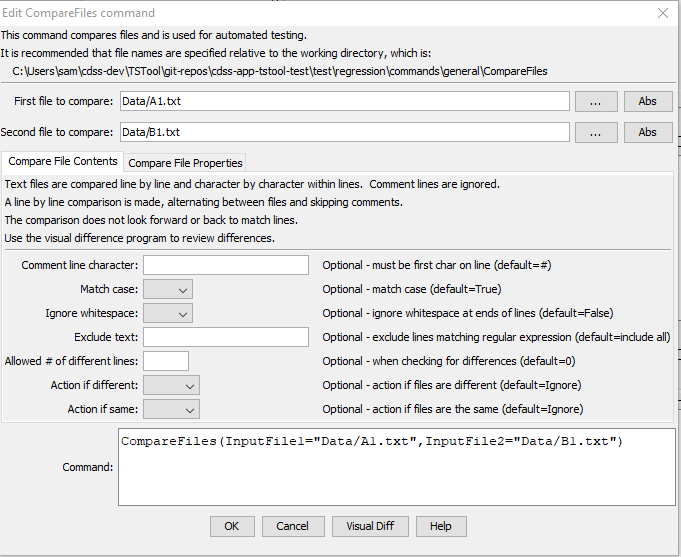
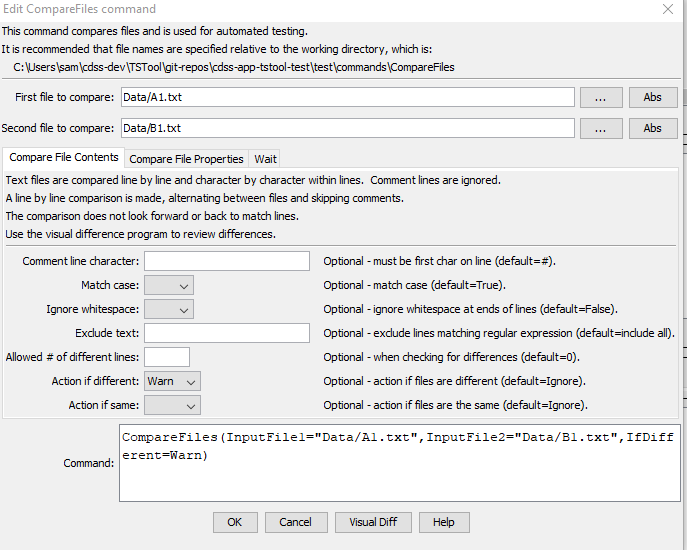
Update CompareFiles documentation, issue #102
Also update Access datastore documentation.

Changed region(s): [[0.0, 0.0, 1.0, 1.0], [0.0925, 0.8345, 0.185, 0.8655]]

diff --git a/mkdocs-project/docs/command-ref/CompareFiles/CompareFiles.md b/mkdocs-project/docs/command-ref/CompareFiles/CompareFiles.md
@@ -12,16 +12,28 @@
 ## Overview ##
 
 The `CompareFiles` command compares text files to determine differences.
-For example, the command can be used to compare old and new files produced by a software process.
+Each file can be specified as a path to a file on the local computer,
+or a URL specifying a file on a web server.
+If a URL is specified for an input file,
+the URL contents are downloaded to a temporary file,
+which is then compared with the other file.
+
+The command can be used to compare old and new files produced by a software process.
 This command is suitable for comparing files that are similar,
 but is not suitable for comparing files that are very different,
 although it may be enhanced in the future to provide more sophisticated comparison features.
 
-Each line in the file is compared.
-By default, lines beginning with `#` are treated as comment lines and are ignored
-(see the `CommentLineChar` parameter to specify the comment indicator).
-Therefore, only non-comment lines are compared.
-Comment lines in the middle of the file are simply discarded.
+* Each line in each file is read.
+  Different numbers of non-comment lines will result in differences.
+* By default, lines beginning with `#` are treated as comment lines and are ignored
+  (see the `CommentLineChar` parameter to specify the comment indicator).
+  Therefore, only non-comment lines are compared.
+  Comment lines in the middle of the file are simply discarded.
+* Missing input files will result in an error.
+  However, if `WaitUntil` is specified, a missing file is treated as an empty file.
+* No attempt is made to align similar lines to jump past groups of different lines.
+  Therefore, if the number of lines is different, many lines may be reported to be different.
+
 Differences and simple statistics are printed to the log file.
 A warning can be generated if a difference is detected or if no differences are detected
 (see also the [`CompareTimeSeries`](../CompareTimeSeries/CompareTimeSeries.md) and [`CompareTables`](../CompareTables/CompareTables.md) commands).
@@ -51,6 +63,14 @@ The following dialog is used to edit the command and illustrates the command syn
 `CompareFiles` Command Editor for Comparing File Properties (<a href="../CompareFiles-Properties.png">see also the full-size image</a>)
 </p>**
 
+**<p style="text-align: center;">
+![CompareFiles-Wait](CompareFiles-Wait.png)
+</p>**
+
+**<p style="text-align: center;">
+`CompareFiles` Command Editor for Wait Properties (<a href="../CompareFiles-Wait.png">see also the full-size image</a>)
+</p>**
+
 ## Command Syntax ##
 
 The command syntax is as follows:
@@ -64,8 +84,8 @@ Command Parameters
 
 | **Tab** | **Parameter**&nbsp;&nbsp;&nbsp;&nbsp;&nbsp;&nbsp;&nbsp;&nbsp;&nbsp;&nbsp;&nbsp;&nbsp;&nbsp;&nbsp;&nbsp;&nbsp;&nbsp;&nbsp;&nbsp;&nbsp;&nbsp;&nbsp;&nbsp;&nbsp;&nbsp; | **Description** | **Default**&nbsp;&nbsp;&nbsp;&nbsp;&nbsp;&nbsp;&nbsp;&nbsp;&nbsp;&nbsp; |
 | --------------|-----------------|----------------- | -- |
-| | `InputFile1`<br>**required** | The name of the first file to read for comparison.  Can be specified using `${Property}`. | None - must be specified. |
-| | `InputFile2`<br>**required** | The name of the second file to read for comparison.  Can be specified using `${Property}`. | None - must be specified. |
+| ***All*** | `InputFile1`<br>**required** | The path to the local file or URL for the first file to read for comparison.  Can be specified using `${Property}`. | None - must be specified. |
+| | `InputFile2`<br>**required** | The path to the local file or URL for the second file to read for comparison.  Can be specified using `${Property}`. | None - must be specified. |
 | ***Compare File Contents*** | `InputFile1`<br>**required** | The name of the first file to read for comparison.  Can be specified using `${Property}`. | None - must be specified. |
 | | `CommentLineChar` | The character(s) that if found at the start of a line indicate comment lines. Comment lines are ignored in the comparison because they typically may include information such as date/time that changes even if the remainder of the file contents is the same. | `#` |
 | | `MatchCase` | If `True`, lines must match exactly.  If `False`, case is ignored for the comparison. | `True` |
@@ -77,6 +97,9 @@ Command Parameters
 | ***Compare File Properties*** | `FileProperty` | File property to compare:<ul><li>`ModificationTime` - file modification time</li><li>`Size` - file size in bytes</li></ul> | |
 | | `FilePropertyOperator` | Operator for comparison, such as Property (for file 1) > Property (for file 2). | |
 | | `FilePropertyAction` | Action to take if the file property check is true:<ul><li>`Warn` - create a warning message</li><li>`Fail` - create a failure message</li></ul> | |
+| ***Wait*** | `WaitUntil` | Indicate whether the command should wait until a condition is met, useful to confirm that a process has completed updating a file or a file has been updated to a web server:<ul><li>`FilesAreDifferent` - wait until the files are different</li><li>`FilesAreSame` - wait until the files are the same</li><li>`NoWait` - don't wait (evaluate the files once)</li></ul> | `NoWait` |
+| | `WaitTimeout` | The maximum number of milliseconds to wait to achieve the `WaitUntil` condition.  If the condition is met before the timeout, the output reflects the files being the requested condition. If the time is reached, no further attempts occur and the result of the last comparison is output. | `1000` (1 second). |
+| | `WaitInterval` | The number of milliseconds to wait between evaluations (to allow an external process to complete its work). | `1000` (1 second). |
 
 ## Examples ##
 

diff --git a/mkdocs-project/docs/datastore-ref/GenericDatabase/GenericDatabase.md b/mkdocs-project/docs/datastore-ref/GenericDatabase/GenericDatabase.md
@@ -214,11 +214,32 @@ Name = "ExampleDatabase"
 Description = "Example Access Database"
 DatabaseEngine = "Access"
 DatabaseName = "//C/path/to/database.accdb"
+# Using the following syntax also seems to work.
+#DatabaseName = "//C:/path/to/database.accdb"
+# See the discussion below.
+#ConnectionProperties = ";memory=false"
 ```
 
 **<p style="text-align: center;">
 Generic Database Datastore Configuration File for Microsoft Access
 </p>**
+
+#### Memory and Performance Considerations ####
+
+By default, the UCanAccess driver will read the entire database into memory,
+which is done to increase performance for relatively small databases.
+However, this can significantly slow down TSTool startup and may lead to an out of memory error.
+The [`OpenDataStore`](../../command-ref/OpenDataStore/OpenDataStore.md) command also
+reopens the datastore each time the commands are run and will be slow each time.
+To avoid loading the database into memory at the initial connection, use the `;memory=false` string in `ConnectionProperties`,
+as shown in the above example, and in [`OpenDataStore(ConnectionProperties=";memory=false"`](../../command-ref/OpenDataStore/OpenDataStore.md)).
+
+See the [UCanAccess documentation](http://ucanaccess.sourceforge.net/site.html#examples)
+for other connection string properties.
+
+If it is desired to load the full database at startup and TSTool runs out of memory,
+it may be necessary to increase the maximum memory used by TSTool.
+See the [Troubleshooting](../../troubleshooting/troubleshooting.md#issue-6-out-of-memory-error) documentation.
 
 ### Microsoft Access Database Example (Old, before TSTool 12) ###
 

diff --git a/mkdocs-project/docs/appendix-release-notes/release-notes-14.md b/mkdocs-project/docs/appendix-release-notes/release-notes-14.md
@@ -60,10 +60,14 @@ Additional resources are needed to update the software to use 64-bit libraries f
   [`WriteTableToGeoJSON`](../command-ref/WriteTableToGeoJSON/WriteTableToGeoJSON.md) command editor so that the `Append` parameter
   field does not overwrite other fields.
 * ![change](change.png) [14.3.0] Add built-in processor properties:
-    + `RunTimeMs` - number of milliseconds for commands to run
-    + `WarningCount` - number of warning messages from commands
-    + `FailureCount` - number of failure messages from commands
-  to run the last command file.  This is useful for performance evaluation.
+    + `RunTimeMs` - number of milliseconds for commands to run.  This is useful for performance evaluation.
+    + `WarningCount` - number of warning messages from commands in the last run.  This is useful for workflow success checks.
+    + `FailureCount` - number of failure messages from commands in the last run.  This is useful for workflow success checks.
+* ![change](change.png) [14.3.0] Update the
+  [`CompareFiles`](../command-ref/CompareFiles/CompareFiles.md) command:
+    + Allow the input file(s) to be specified with a URL, to compare web-hosted file(s).
+    + Add the `WaitUntil` and related parameters to allow repeated comparison of files until the condition
+      of same or different files is met.
 * ![change](change.png) [14.3.0] Update the
   [`ReadDateValue`](../command-ref/ReadDateValue/ReadDateValue.md) command:
     + Add the `IfNotFound` parameter to ignore reading if the file does not exist,

diff --git a/mkdocs-project/docs/command-ref/OpenDataStore/OpenDataStore.md b/mkdocs-project/docs/command-ref/OpenDataStore/OpenDataStore.md
@@ -88,6 +88,24 @@ See the [automated tests](https://github.com/OpenCDSS/cdss-app-tstool-test/tree/
 
 ## Troubleshooting ##
 
+### MicroSoft Access Datastore Out of Memory ###
+
+By default, the UCanAccess driver will read the entire database into memory,
+which is done to increase performance for relatively small databases.
+However, this can significantly slow down TSTool startup and may lead to an out of memory error.
+The `OpenDataStore` command reopens the datastore each time the commands are run and will be slow each time.
+To avoid loading the database into memory at the initial connection,
+use the parameter: `ConnectionProperties=;memory=false`.
+If the database is read into memory at startup, initial queries may be slow; however,
+the speed generally incresaes as more queries occur.
+
+See the [UCanAccess documentation](http://ucanaccess.sourceforge.net/site.html#examples)
+for other connection string properties.
+
+If it is desired to load the full database at startup and TSTool runs out of memory,
+it may be necessary to increase the maximum memory used by TSTool.
+See the [Troubleshooting](../../troubleshooting/troubleshooting.md#issue-6-out-of-memory-error) documentation.
+
 ## See Also ##
 
 * [`CloseDataStore`](../CloseDataStore/CloseDataStore.md) command
